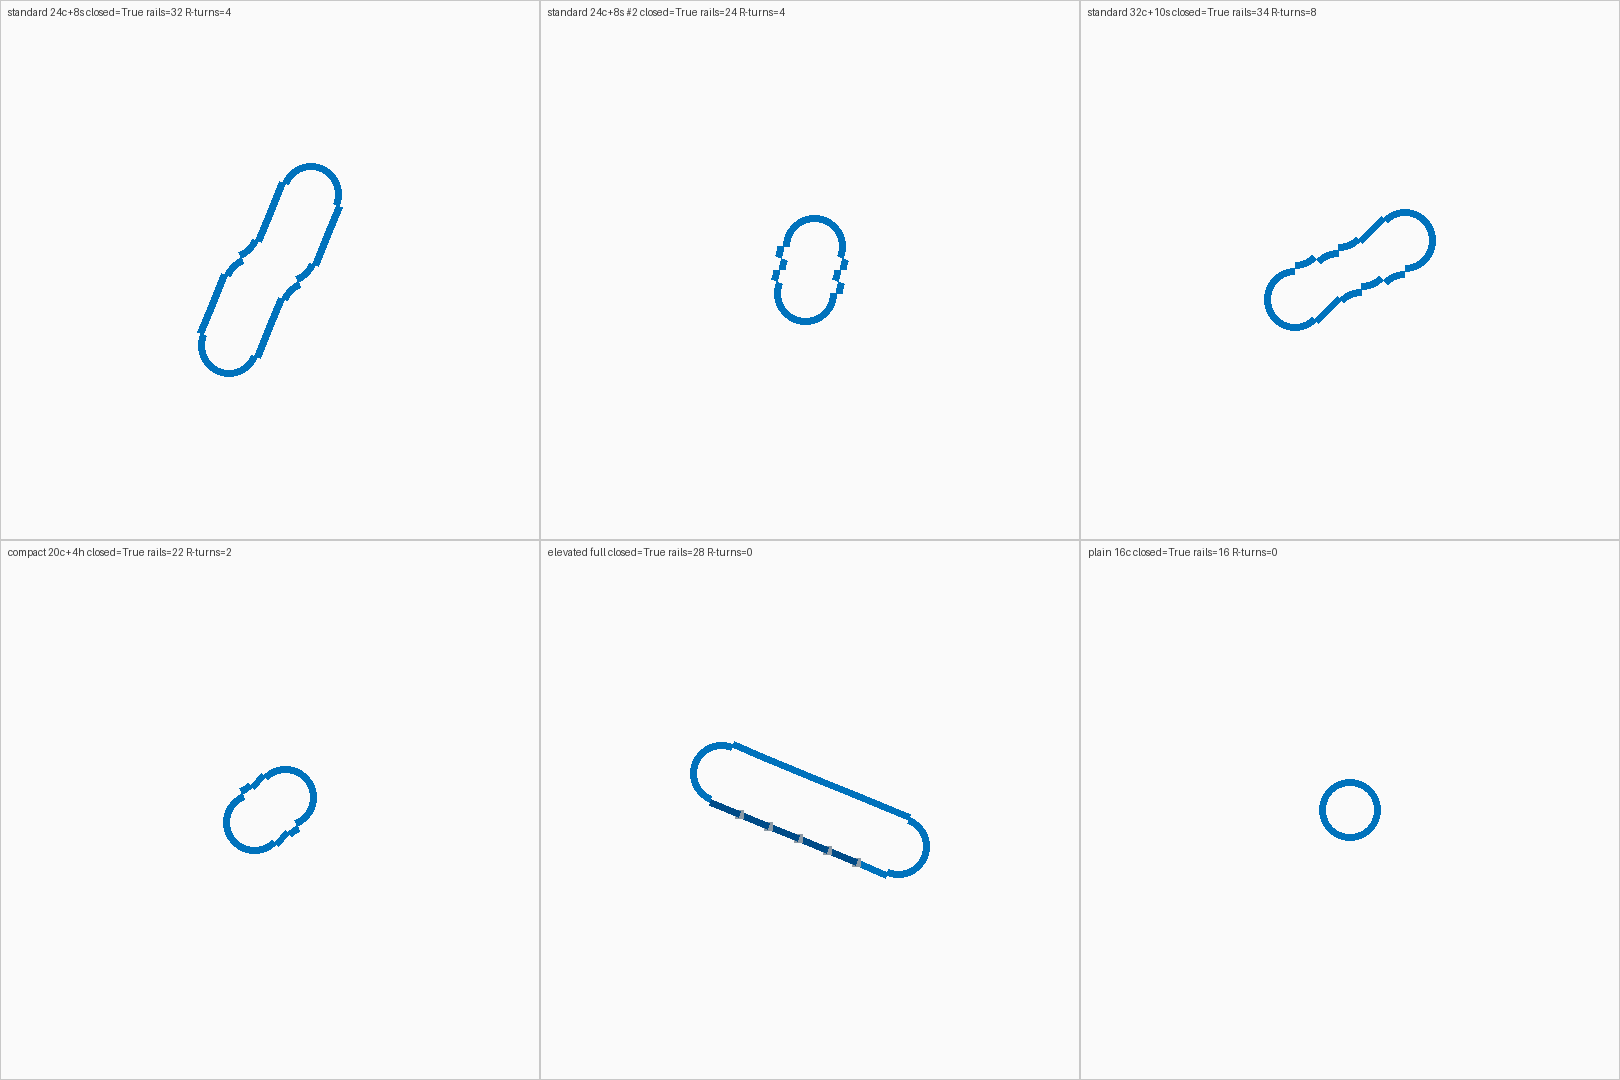
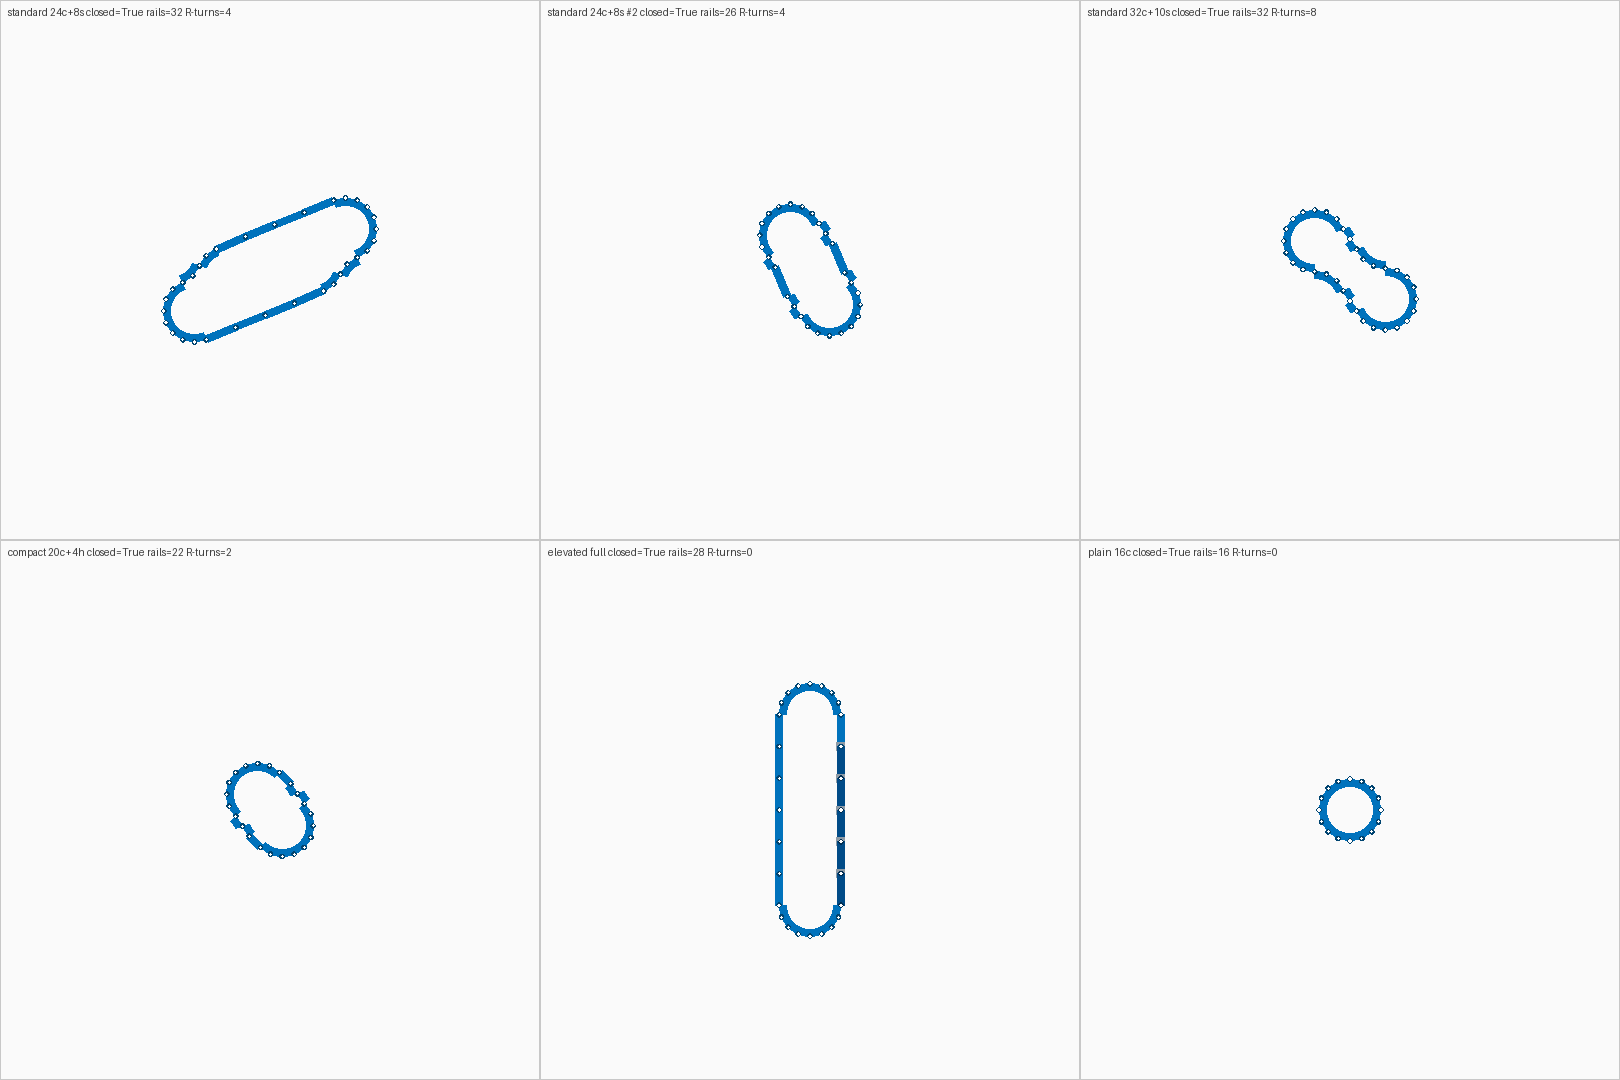
fix(ui): seamless track bands with compact seam+peg connectors (no overlapping joints)

diff --git a/frontend_flutter/lib/views/layout_canvas_view.dart b/frontend_flutter/lib/views/layout_canvas_view.dart
@@ -153,22 +153,79 @@ class _LayoutPainter extends CustomPainter {
   }
 
   void _drawRails(Canvas canvas, Size size) {
-    // Z=0から順に描画（高い階が上に重なる）
+    // 2パス描画:
+    //   1パス目: 全ピースの道床（Z=0から順、高い階が上に重なる）
+    //   2パス目: 全継ぎ目マーカー（後続ピースの道床に塗りつぶされないように）
     final byZ = <int, List<PlacedRail>>{};
     for (final r in placedRails) {
       byZ.putIfAbsent(r.zLevel, () => []).add(r);
     }
+
+    final connectors = <(_JointPair, Color)>[];
+    var isFirstTrackPiece = true;
+    _JointPair? firstJoints;
+    Color? firstColor;
+
     for (final z in [0, 1, 2]) {
       for (final rail in byZ[z] ?? []) {
-        _drawSingleRail(canvas, size, rail, _colorForZ(z));
+        final color = _colorForZ(z);
+        final joints = _drawRailBody(canvas, size, rail, color);
+        if (joints != null) {
+          connectors.add((joints, color));
+          if (isFirstTrackPiece) {
+            firstJoints = joints;
+            firstColor = color;
+            isFirstTrackPiece = false;
+          }
+        }
       }
+    }
+
+    // 継ぎ目: 各ピースの終端（オス側）に1個 = 連結部1箇所につき1マーカー
+    for (final (joints, color) in connectors) {
+      _drawConnector(canvas, joints.endPos, joints.endOutwardAngle, color);
+    }
+    // 開いたチェーンの先頭（メス側）にはホールを表示
+    if (firstJoints != null && firstColor != null) {
+      _drawOpenHole(canvas, firstJoints.startPos,
+          firstJoints.startOutwardAngle + math.pi, firstColor);
     }
   }
 
-  static const double _railEndInset = 8.0;  // ジョイント表示用の隙間 (canvas px)
-  static const double _jointSize = 6.0;
+  /// 連結済みの継ぎ目: 道床を横切るシームライン + ペグ円（実物を上から見た接合部）
+  void _drawConnector(Canvas canvas, Offset pos, double travelAngle, Color color) {
+    final t = Offset(math.cos(travelAngle), math.sin(travelAngle));
+    final perp = Offset(-t.dy, t.dx);
+    final seam = Paint()
+      ..color = grooveColorOf(color)
+      ..strokeWidth = 1.4;
+    canvas.drawLine(
+        pos + perp * (_bandWidth / 2), pos - perp * (_bandWidth / 2), seam);
+    // ペグ（次のレールのホールに収まった状態の小さな円）
+    final pegCenter = pos + t * 3.6;
+    canvas.drawCircle(pegCenter, 2.6, Paint()..color = grooveColorOf(color));
+    canvas.drawCircle(
+        pegCenter, 1.4, Paint()..color = Colors.white.withOpacity(0.9));
+  }
 
-  void _drawSingleRail(Canvas canvas, Size size, PlacedRail rail, Color color) {
+  /// 開いた端のメスホール（未連結を表す）
+  void _drawOpenHole(Canvas canvas, Offset pos, double intoAngle, Color color) {
+    final t = Offset(math.cos(intoAngle), math.sin(intoAngle));
+    final holeCenter = pos + t * 3.6;
+    canvas.drawCircle(holeCenter, 2.6, Paint()..color = Colors.white);
+    canvas.drawCircle(
+      holeCenter,
+      2.6,
+      Paint()
+        ..color = grooveColorOf(color)
+        ..style = PaintingStyle.stroke
+        ..strokeWidth = 1.2,
+    );
+  }
+
+  /// ピース1個分の道床を描画し、両端のジョイント情報を返す（橋脚は null）
+  _JointPair? _drawRailBody(
+      Canvas canvas, Size size, PlacedRail rail, Color color) {
     final paint = Paint()
       ..color = color
       ..strokeWidth = _railWidth
@@ -178,10 +235,9 @@ class _LayoutPainter extends CustomPainter {
     final rot = rail.rotation * math.pi / 180.0;
     final origin = _toCanvas(rail.originX, rail.originY, size);
 
-    // 各種別ごとに本体描画 + ジョイントの世界位置/角度を計算
     final rt = RailType.fromApiValue(rail.railType);
 
-    // 橋脚: 軌道ピースではないので支柱マーカーとして描画してジョイントは省略
+    // 橋脚: 軌道ピースではないので支柱マーカーとして描画
     if (rt == RailType.bridgePierStandard || rt == RailType.bridgePierBlock) {
       final pierRect = RRect.fromRectAndRadius(
         Rect.fromCenter(center: origin, width: 15, height: 15),
@@ -196,24 +252,14 @@ class _LayoutPainter extends CustomPainter {
           ..style = PaintingStyle.stroke
           ..strokeWidth = 1.2,
       );
-      return;
+      return null;
     }
 
-    _JointPair? joints;
     if (rt == RailType.curveR || rt == RailType.curveRLarge) {
-      joints = _drawCurve(canvas, origin, rot, rt == RailType.curveRLarge,
+      return _drawCurve(canvas, origin, rot, rt == RailType.curveRLarge,
           rail.flipped, paint);
-    } else {
-      joints = _drawStraightSegment(canvas, origin, rot, rt, paint);
     }
-
-    // 凸凹ジョイントマーカー（rail body の inset 位置に描画 → 隙間が生まれる）
-    if (joints != null) {
-      paintFemaleJoint(canvas, joints.startPos, color,
-          outwardAngle: joints.startOutwardAngle, size: _jointSize);
-      paintMaleJoint(canvas, joints.endPos, color,
-          outwardAngle: joints.endOutwardAngle, size: _jointSize);
-    }
+    return _drawStraightSegment(canvas, origin, rot, rt, paint);
   }
 
   // 道床（青いバンド）の描画幅。在庫アイコンと同じ比率。
@@ -235,16 +281,13 @@ class _LayoutPainter extends CustomPainter {
     final dir = Offset(math.cos(rot), math.sin(rot));
     final end = origin + dir * len;
 
-    // 本体は両端を _railEndInset だけ短く → ジョイント表示用の隙間
-    final bodyStart = origin + dir * _railEndInset;
-    final bodyEnd = end - dir * _railEndInset;
-
-    paintBandLine(canvas, bodyStart, bodyEnd, _bandWidth, paint.color);
+    // 実物の連結済みレールと同様、道床は隙間なく連続させる
+    paintBandLine(canvas, origin, end, _bandWidth, paint.color);
 
     return _JointPair(
-      startPos: bodyStart,
+      startPos: origin,
       startOutwardAngle: rot + math.pi,
-      endPos: bodyEnd,
+      endPos: end,
       endOutwardAngle: rot,
     );
   }
@@ -255,7 +298,6 @@ class _LayoutPainter extends CustomPainter {
       bool flipped, Paint paint) {
     final radius = (isLarge ? 206.0 : 103.0) * _scale;
     const angleSpan = 22.5 * math.pi / 180.0;
-    final arcInset = _railEndInset / radius;
 
     final Offset center;
     final double drawStart;
@@ -268,9 +310,8 @@ class _LayoutPainter extends CustomPainter {
       center = origin +
           Offset(radius * math.cos(rot + math.pi / 2),
               radius * math.sin(rot + math.pi / 2));
-      final startAngle = rot - math.pi / 2;
-      drawStart = startAngle + arcInset;
-      drawSpan = angleSpan - 2 * arcInset;
+      drawStart = rot - math.pi / 2;
+      drawSpan = angleSpan;
       // CCW 弧上の進行方向 = 角度 + 90°
       startOutward = drawStart + math.pi / 2 + math.pi;
       endOutward = drawStart + drawSpan + math.pi / 2;
@@ -279,9 +320,8 @@ class _LayoutPainter extends CustomPainter {
       center = origin +
           Offset(radius * math.cos(rot - math.pi / 2),
               radius * math.sin(rot - math.pi / 2));
-      final startAngle = rot + math.pi / 2;
-      drawStart = startAngle - arcInset;
-      drawSpan = -(angleSpan - 2 * arcInset);
+      drawStart = rot + math.pi / 2;
+      drawSpan = -angleSpan;
       // CW 弧上の進行方向 = 角度 − 90°
       startOutward = drawStart - math.pi / 2 + math.pi;
       endOutward = drawStart + drawSpan - math.pi / 2;

diff --git a/tools/preview_layout.py b/tools/preview_layout.py
@@ -23,6 +23,8 @@ PIER = (141, 154, 165)
 
 
 def draw_layout(d: ImageDraw.ImageDraw, placed, ox, oy):
+    """道床は連続バンド、継ぎ目はピース終端のペグ円1個（アプリの新描画仕様を模擬）"""
+    ends = []  # (x, y, color)
     for p in placed:
         x = ox + p["origin_x"] * SCALE
         y = oy + p["origin_y"] * SCALE
@@ -42,19 +44,28 @@ def draw_layout(d: ImageDraw.ImageDraw, placed, ox, oy):
                 cy = y + R * math.sin(rot + math.pi / 2)
                 a0 = math.degrees(rot) - 90
                 a1 = a0 + 22.5
+                end_a = math.radians(a1)
             else:
                 cx = x + R * math.cos(rot - math.pi / 2)
                 cy = y + R * math.sin(rot - math.pi / 2)
                 a1 = math.degrees(rot) + 90
                 a0 = a1 - 22.5
+                end_a = math.radians(a0)
             bbox = [cx - R, cy - R, cx + R, cy + R]
-            d.arc(bbox, a0, a1, fill=color, width=7)
+            d.arc(bbox, a0, a1, fill=color, width=8)
+            ends.append((cx + R * math.cos(end_a), cy + R * math.sin(end_a), color))
         else:
-            # 直線系 (straight / half / incline)
             L = (53.0 if rt == "straight_half" else 106.0) * SCALE
             x2 = x + L * math.cos(rot)
             y2 = y + L * math.sin(rot)
-            d.line([x, y, x2, y2], fill=color, width=7)
+            d.line([x, y, x2, y2], fill=color, width=8)
+            ends.append((x2, y2, color))
+
+    # 継ぎ目ペグ（2パス目）
+    for ex, ey, color in ends:
+        dark = tuple(int(c * 0.6) for c in color)
+        d.ellipse([ex - 2.4, ey - 2.4, ex + 2.4, ey + 2.4], fill=dark)
+        d.ellipse([ex - 1.1, ey - 1.1, ex + 1.1, ey + 1.1], fill=(255, 255, 255))
 
 
 async def main():

diff --git a/release-notes-v0.4.0.md b/release-notes-v0.4.0.md
@@ -1,0 +1,21 @@
+# MVP v0.4.0 - 複雑なコース生成 + レール描画の完全統一
+
+## 1. レイアウト生成エンジン v2.1（数式刷新）
+- カーブの反転連結（右旋回）を導入
+- 「対辺打ち消しの定理」により S字・波形入りの複雑な閉ループを厳密に生成
+  - 基本ループの対辺に正味旋回角0の同一ピース列を挿入しても閉路が保たれる
+- 自己交差は 20mm グリッド占有チェックで排除（不合格時は自動で形を変えて再試行）
+- 閉路判定は仕様の許容誤差（距離10mm・角度2°）に準拠
+- カーブ16本で100%成功の保証は維持（100回連続成功を再検証済み）
+- カーブが16本より多いほど複雑な形（ピーナッツ形・波形ループ等）が出やすい
+- ※エンジンはサーバー側のため、バックエンドデプロイ後に有効
+
+## 2. シミュレーション描画を在庫アイコンと完全統一
+- 道床の描画関数を在庫アイコンと物理的に共有（全く同じ形・同じ質感）
+- 表示スケールを 1.7 倍拡大（レール1本 44px・道床 11px のずんぐり比率）
+- 初期表示でコースが画面中央に表示（ピンチでズーム・パン可能）
+- グリッドをレール1本分（106mm）間隔に変更
+- 右旋回カーブの描画に対応
+
+## インストール
+旧バージョンをアンインストール後、APK をタップしてインストール。
